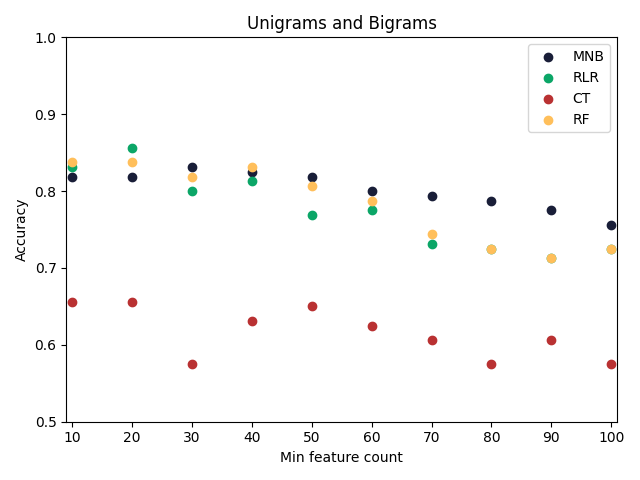
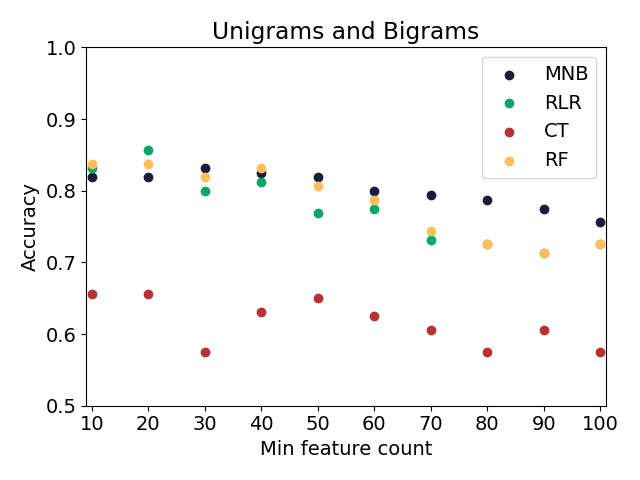
grotere plot :^)

diff --git a/Assignment 2/classifiers.py b/Assignment 2/classifiers.py
@@ -15,6 +15,7 @@ def main(with_bi_grams, min_uni_gram_count, min_bi_gram_count):
     all_data, column_headers = features.add_features(with_bi_grams, min_uni_gram_count, min_bi_gram_count)
     tr_x, tr_y, te_x, te_y = split_data(all_data)
 
+
     mnb_y, coef_dict_mnb = multinomial_naive_bayes(tr_x, tr_y, te_x, column_headers, "MNB")
     mnb_perf = performance(te_y, mnb_y, "MNB")
 
@@ -44,7 +45,7 @@ def split_data(data):
     test_x = test_data[:, :-1]
     test_y = test_data[:, -1].astype('int')
 
-    return training_x, training_y, test_x, test_y
+    return training_x, training_y, test_x, test_y,
 
 
 def performance(y_true, y_pred, classifier):
@@ -174,6 +175,7 @@ def generic_classifier(classifier, tr_x, tr_y, te_x, random_grid, column_headers
                                     random_state=42, n_jobs=-1)
     classifier = classifier.fit(tr_x, tr_y)
     best_classifier = classifier.best_estimator_
+    print(classifier.best_params_)
     coef_dict = get_coef_dict(best_classifier, column_headers, class_type)
     y_pred = best_classifier.predict(te_x)
 
@@ -234,7 +236,7 @@ def loop_through_min_features(with_bi_grams):
             f = open('performance' + title + '.pkl', 'wb')
             pickle.dump([y_mnb, y_rlr, y_ct, y_rf, min_count_list], f)
         f.close()
-
+    plt.rcParams.update({'font.size': 14})
     fig, ax = plt.subplots()
     ax.scatter(x_axis, y_mnb, c="#191e38", label="MNB")
     ax.scatter(x_axis, y_rlr, c="#0ba667", label="RLR")
@@ -243,6 +245,7 @@ def loop_through_min_features(with_bi_grams):
 
     ax.legend()
     plt.xlim(min_count_list[0]-1, min_count_list[-1]+1)
+
     plt.ylim(0.5, 1.0)
     plt.xticks(min_count_list)
     plt.xlabel('Min feature count')
